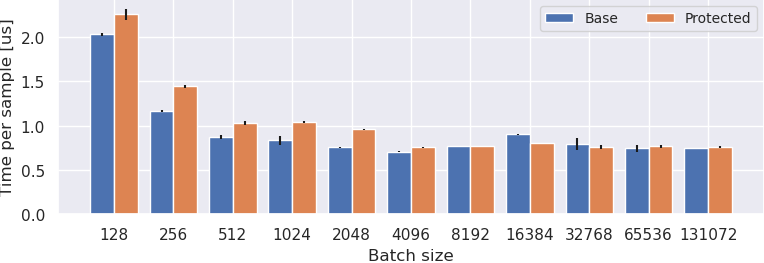
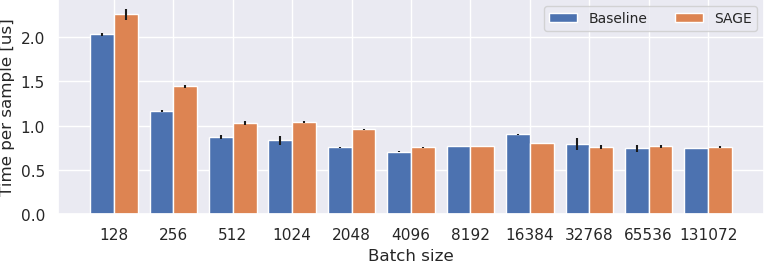
Cleanup plots

Changed region(s): [[0.7526, 0.0304, 0.9935, 0.0913], [0.6924, 0.0304, 0.7225, 0.0913]]

diff --git a/kernel_launcher/plot_overhead.py b/kernel_launcher/plot_overhead.py
@@ -15,7 +15,7 @@ with open('perf_kernel_and_copy.txt', 'r') as f:
     for l in f.readlines():
         match = re.search('Start run protected (.+) :: args (.+) (.+) (.+) (.+) (.+) (.+)', l)
         if match:
-            version = 'Protected' if int(match.group(1)) else 'Base'
+            version = 'SAGE' if int(match.group(1)) else 'Baseline'
             batch = int(match.group(4)) * 128
             copy_repeats = int(match.group(5))
             relu_repeats = int(match.group(6))
@@ -46,11 +46,11 @@ df = pd.DataFrame.from_dict(entries)
 
 print(df)
 
-x_copy = np.array(df[(df.Operation == 'Copy') & (df.Version == 'Protected')].Batch)
+x_copy = np.array(df[(df.Operation == 'Copy') & (df.Version == 'SAGE')].Batch)
 # convert to MB
 x_copy = x_copy * 784 * 4 / 1e9
 
-x_kernel = np.array(df[(df.Operation == 'Kernel launch') & (df.Version == 'Protected')].Batch)
+x_kernel = np.array(df[(df.Operation == 'Kernel launch') & (df.Version == 'SAGE')].Batch)
 
 val = {}
 for op, ver in itertools.product(df.Operation.unique(), df.Version.unique()):
@@ -59,8 +59,8 @@ for op, ver in itertools.product(df.Operation.unique(), df.Version.unique()):
 
 diff = {}
 for op in df.Operation.unique():
-    diff[(op, 'mean')] = val[(op, 'Protected', 'mean')] - val[(op, 'Base', 'mean')]
-    diff[(op, 'std')] = val[(op, 'Protected', 'std')] + val[(op, 'Base', 'std')]
+    diff[(op, 'mean')] = val[(op, 'SAGE', 'mean')] - val[(op, 'Baseline', 'mean')]
+    diff[(op, 'std')] = val[(op, 'SAGE', 'std')] + val[(op, 'Baseline', 'std')]
 
 k_lin = scipy.stats.linregress(x_kernel, diff['Kernel launch', 'mean'])
 c_lin = scipy.stats.linregress(x_copy, diff['Copy', 'mean'])
@@ -82,12 +82,12 @@ ax[0].legend()
 
 #ax[1].errorbar(x_kernel, diff['Kernel launch', 'mean'], yerr=diff['Kernel launch', 'std'])
 
-# ax[1].errorbar(x_kernel, val[('Kernel launch', 'Protected', 'mean')], yerr=diff['Kernel launch', 'std'], label='Protected')
-# ax[1].errorbar(x_kernel, val[('Kernel launch', 'Base', 'mean')], yerr=diff['Kernel launch', 'std'], label='Base')
+# ax[1].errorbar(x_kernel, val[('Kernel launch', 'SAGE', 'mean')], yerr=diff['Kernel launch', 'std'], label='SAGE')
+# ax[1].errorbar(x_kernel, val[('Kernel launch', 'Baseline', 'mean')], yerr=diff['Kernel launch', 'std'], label='Baseline')
 
-kernel_time = val[('Kernel launch', 'Base', 'mean')]
-kernel_std = val[('Kernel launch', 'Base', 'std')]
-launch_percent = 100 * diff['Kernel launch', 'mean'] / val[('Kernel launch', 'Base', 'mean')]
+kernel_time = val[('Kernel launch', 'Baseline', 'mean')]
+kernel_std = val[('Kernel launch', 'Baseline', 'std')]
+launch_percent = 100 * diff['Kernel launch', 'mean'] / val[('Kernel launch', 'Baseline', 'mean')]
 
 ax[1].errorbar(kernel_time, launch_percent, marker='.')
 

diff --git a/kernel_launcher/plot_perf.py b/kernel_launcher/plot_perf.py
@@ -14,7 +14,7 @@ with open('perf.txt', 'r') as f:
     for l in f.readlines():
         match = re.search('Start run protected (.+) :: args (.+) (.+) (.+) (.+) (.+) (.+)', l)
         if match:
-            version = 'Protected' if int(match.group(1)) else 'Base'
+            version = 'SAGE' if int(match.group(1)) else 'Baseline'
             batch = int(match.group(4)) * 128
     
         match = re.search('times mean (.+) ms std (.+) ms', l)
